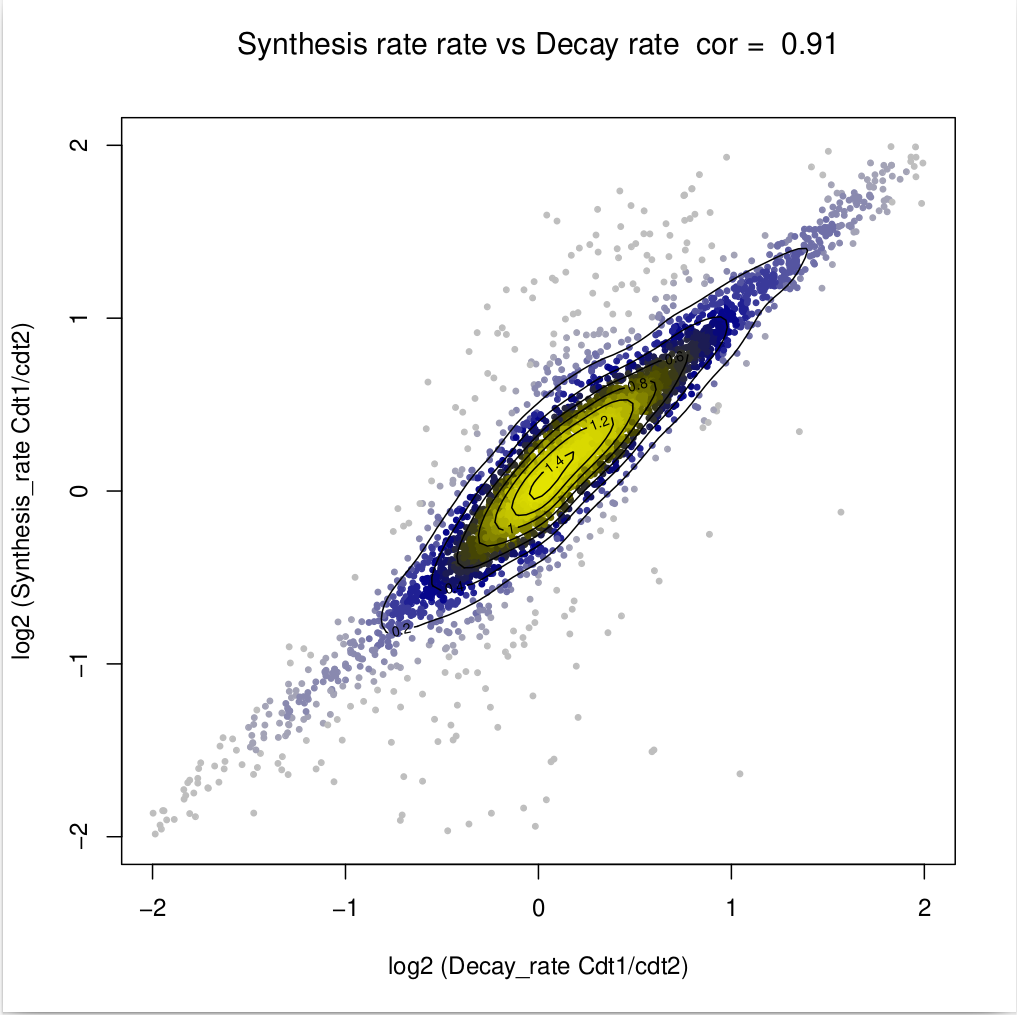
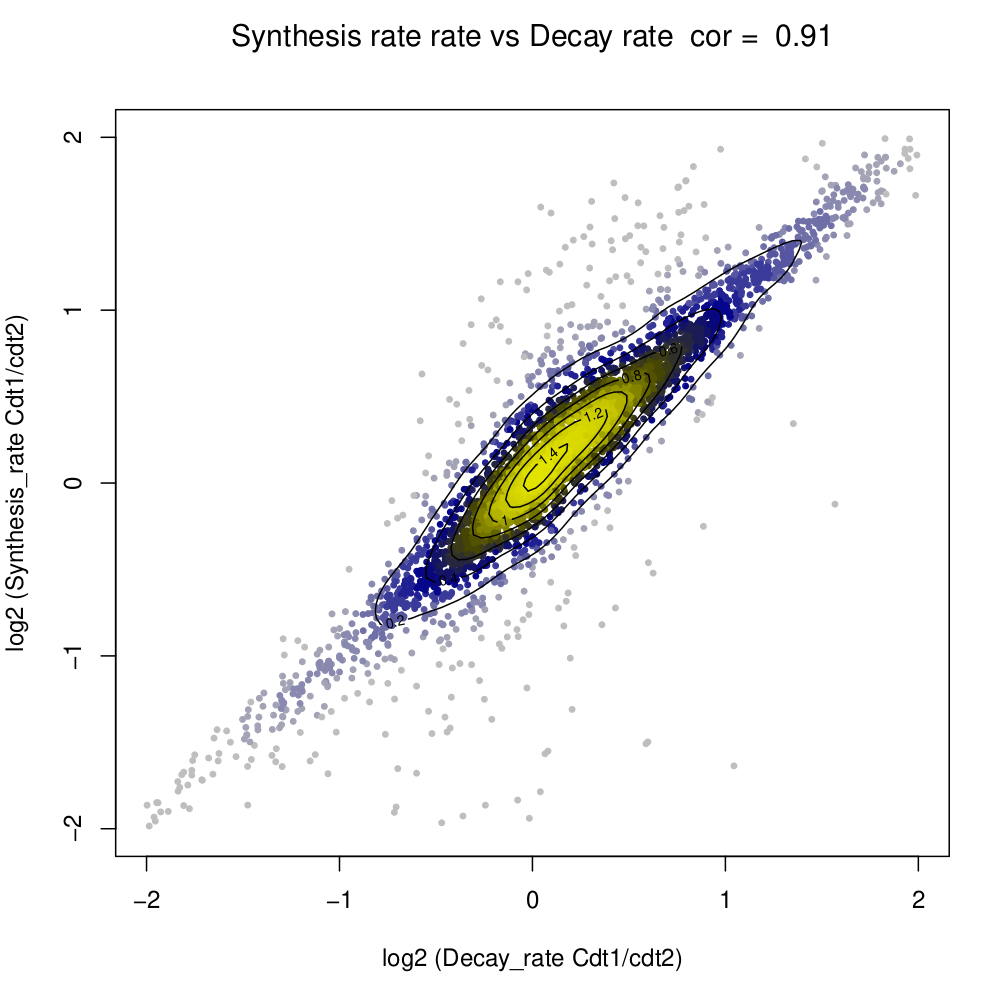
update

diff --git a/README.md b/README.md
@@ -14,20 +14,24 @@ generated by Rifi of both conditions.
 
 <br/>
 <p align="center">
-  <img src="log2FC.png" alt="drawing" width="400"/>
+  <img src="log2FC.png" alt="drawing" width="500"/>
 </p>
 
 <sub>
 <b>Figure 1:</b> a heatscatter visualization of log2FC(half-life(cdt1/cdt2) vs 
-log2FC of intensity(cdt1/cdt2)). Red to blue colors show high and low density
+log2FC(intensity(cdt1/cdt2)). Red to blue colors show high and low density
 respectively. Correlation between both measurement is provided (cor).
 </sub>
 
 <br/>
 <p align="center">
-  <img src="log2FC_syntehsisRate_vs_decayRate.png" alt="drawing" width="400"/>
+  <img src="log2FC_syntehsisRate_vs_decayRate.png" alt="drawing" width="500"/>
 </p>
-<br/>
+<sub>
+<b>Figure 2:</b> a heatscatter visualization of log2FC(half-life rate (cdt1/cdt2) vs 
+log2FC(synthesis rate (cdt1/cdt2)). Yellow to yellow pale colors show high and 
+low density respectively. Correlation between both measurement is provided (cor).
+</sub>
 
 # Installation 
 
